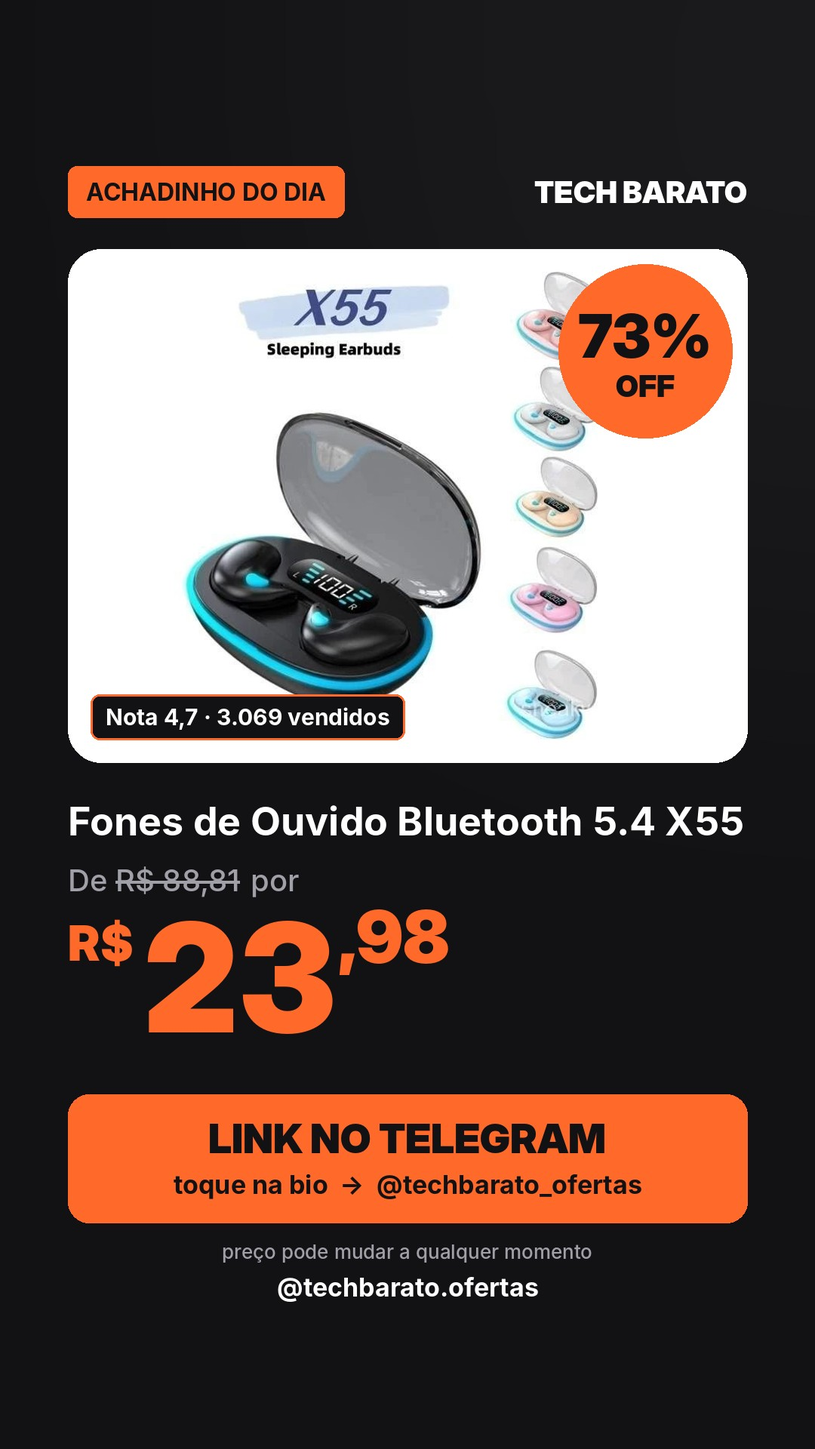
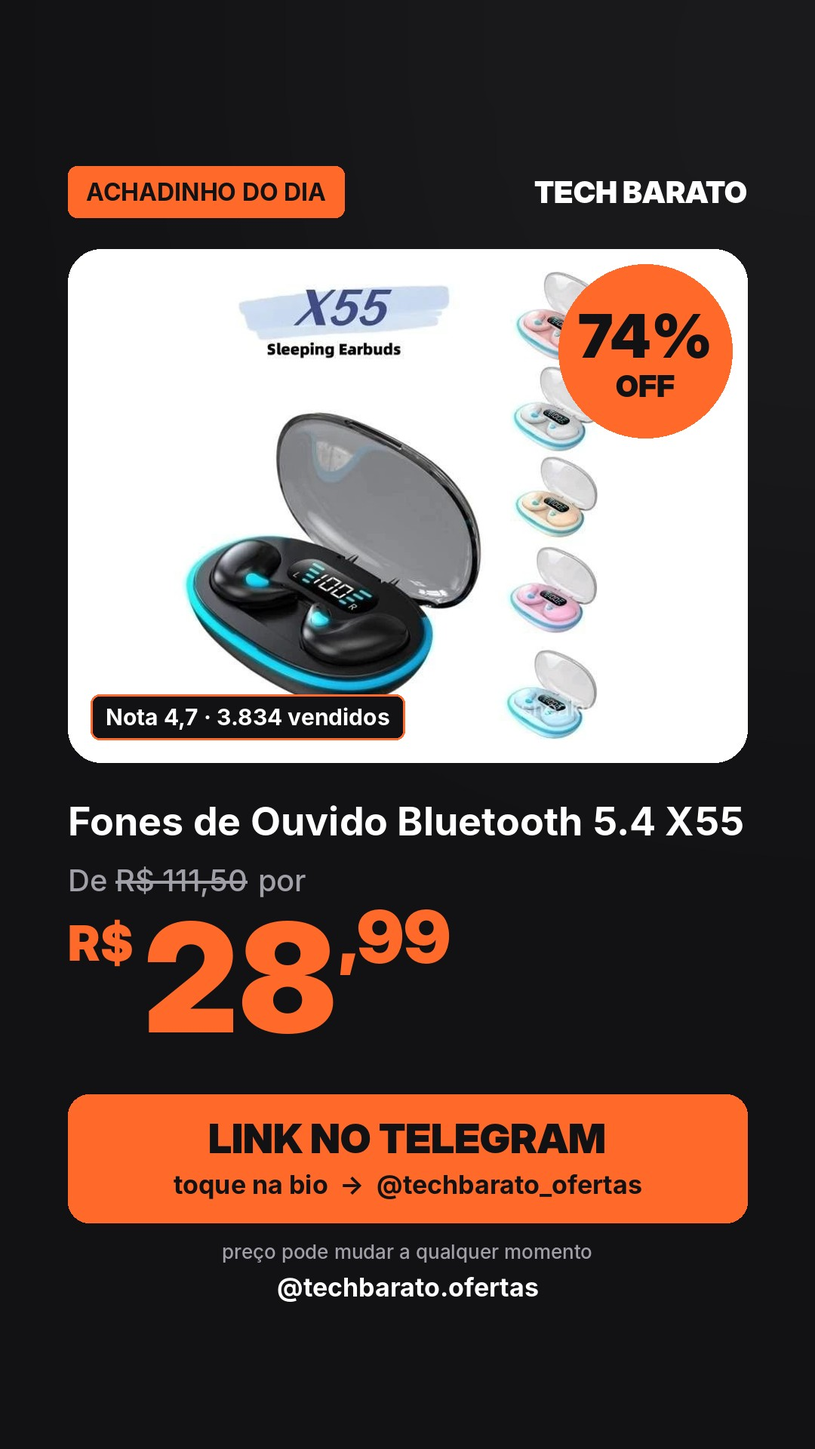
ofertas 2026-11-22_1820

diff --git a/docs/index.html b/docs/index.html
@@ -27,12 +27,12 @@ main{max-width:1100px;margin:auto;padding:8px 16px 40px;display:grid;grid-templa
 footer{text-align:center;color:var(--sub);font-size:12px;padding:0 16px 30px}
 </style></head><body>
 <header><h1>Tech Barato BR <span>●</span></h1>
-<p class="sub">Ofertas da Shopee escolhidas a dedo · atualizado em 22/11/2026 às 04:51</p>
+<p class="sub">Ofertas da Shopee escolhidas a dedo · atualizado em 22/11/2026 às 15:20</p>
 <a class="canal" href="https://t.me/techbarato_ofertas" target="_blank" rel="noopener">📢 Entrar no canal de ofertas</a><div class="filtros" id="f"></div></header>
 <main id="g"></main>
 <footer>Como afiliado da Shopee, posso receber comissão pelas compras feitas pelos links, sem custo extra para você. Preços e estoque podem mudar.</footer>
 <script>
-const D=[{"nome": "Smartwatch MINI 38MM PRO Com monitor De Frequência Cardíaca Do Computador São Paulo pronta entrega", "preco": 53.99, "preco_original": 199.96, "desconto": 73, "imagem": "https://cf.shopee.com.br/file/br-11134207-81z1k-mg4sqr0e5nggcd", "nota": 4.8, "vendas": 1587, "link": "https://s.shopee.com.br/9pg53GM0MZ", "categoria": "smartwatch"}, {"nome": "Teclado Gamer Semi-mecânico Rgb Anti-ghosting", "preco": 38.88, "preco_original": 149.54, "desconto": 74, "imagem": "https://cf.shopee.com.br/file/br-11134207-7r98o-mcw6gui5vk1e01", "nota": 4.8, "vendas": 911, "link": "https://s.shopee.com.br/7AfJsME93E", "categoria": "teclado mecanico"}, {"nome": "Fone Pro Sem Fio Som HiFi 8D Pop-Up Automático Toque Inteligente Bateria 5–7h Bluetooth Universal", "preco": 17.99, "preco_original": 69.19, "desconto": 74, "imagem": "https://cf.shopee.com.br/file/sg-11134201-8261z-ml25b72c1ds21d", "nota": 4.8, "vendas": 6050, "link": "https://s.shopee.com.br/8pnXrPqCWp", "categoria": "fone bluetooth"}, {"nome": "Headset Gamer 7.1 Surround Rgb Delta-f7140 Com Microfone Para Pc E Console", "preco": 54.78, "preco_original": 210.69, "desconto": 74, "imagem": "https://cf.shopee.com.br/file/br-11134207-820lk-moa3sgm6molj9c", "nota": 4.9, "vendas": 710, "link": "https://s.shopee.com.br/2La3a56N5e", "categoria": "headset gamer"}, {"nome": "Smartwatch WL23 PRO(46mm)2026 3 Pulseiras inteligente GPS unisex Esportes Faz Recebe Chamada", "preco": 49.99, "preco_original": 192.27, "desconto": 74, "imagem": "https://cf.shopee.com.br/file/br-11134207-820m0-mpp5kpuip537a4", "nota": 4.9, "vendas": 2069, "link": "https://s.shopee.com.br/40iHZ8nJBt", "categoria": "smartwatch"}, {"nome": "Fone de Ouvido Sem Fio Airpods PRO 3 Com Cancelamento De Ruído Bluetooth Pop-Up para iOS e Android", "preco": 42.98, "preco_original": 171.92, "desconto": 75, "imagem": "https://cf.shopee.com.br/file/sg-11134201-7rd3v-m70zchxbcirf93", "nota": 4.7, "vendas": 5429, "link": "https://s.shopee.com.br/1W0waXf5bw", "categoria": "fone bluetooth"}, {"nome": "Calculadora Colorida Morandi De 12 Dígitos Teclado Mecânico De Ponto Grande Escola & Papelaria De Escritório Multineos", "preco": 22.69, "preco_original": 68.76, "desconto": 67, "imagem": "https://cf.shopee.com.br/file/br-11134207-7r98o-m29ormpaj3kmd9", "nota": 4.9, "vendas": 288, "link": "https://s.shopee.com.br/LoyoRFtE7", "categoria": "teclado mecanico"}, {"nome": "Suporte Roteador Modem Parede Sem Furo Fita 3M Adesivo Universal Organizador WiFi Internet", "preco": 12.0, "preco_original": 36.36, "desconto": 67, "imagem": "https://cf.shopee.com.br/file/br-11134207-820lb-mujiqv5jrabkd0", "nota": 4.6, "vendas": 365, "link": "https://s.shopee.com.br/5AuEZJgIrj", "categoria": "roteador wifi"}, {"nome": "Case Gaveta HD SSD 2.5 Sata III USB 3.0 Transparente Externo 6Gbps PC Notebook PS4 Kit 2  jehnny", "preco": 30.99, "preco_original": 99.97, "desconto": 69, "imagem": "https://cf.shopee.com.br/file/sg-11134201-822x9-mhwbs2tvuo0443", "nota": 4.9, "vendas": 611, "link": "https://s.shopee.com.br/AKcKio52Gw", "categoria": "ssd"}, {"nome": "Teclado Mecanico TGT Sherman V3 C1, Rainbow, ABNT2, Switch Vermelho, Preto, TGT-SHRC-RD01", "preco": 91.91, "preco_original": 382.96, "desconto": 76, "imagem": "https://cf.shopee.com.br/file/br-11134207-820ls-mqeqor4mxm2o65", "nota": 4.9, "vendas": 485, "link": "https://s.shopee.com.br/6q2RtnnDut", "categoria": "teclado mecanico"}, {"nome": "Fone de Ouvido Sem Fio Com Cancelamento De Ruído Bluetooth Pop-Up", "preco": 42.89, "preco_original": 194.95, "desconto": 78, "imagem": "https://cf.shopee.com.br/file/sg-11134201-7rffm-m4f5wo6pi7mjaa", "nota": 4.8, "vendas": 6499, "link": "https://s.shopee.com.br/3g5Q7ylwRd", "categoria": "fone bluetooth"}, {"nome": "Carregador Turbo Inteligente + V8/tipo c Turbo com Cabo Micro USB Novos Telefones Recomendados", "preco": 14.88, "preco_original": 99.2, "desconto": 85, "imagem": "https://cf.shopee.com.br/file/br-11134207-7r98o-lwsogz92un4ic8", "nota": 4.7, "vendas": 2035, "link": "https://s.shopee.com.br/50aniQPKsw", "categoria": "carregador turbo"}, {"nome": "Carregador Turbo 20w Compatível iPhone + Cabo Lightning", "preco": 26.9, "preco_original": null, "desconto": 0, "imagem": "https://cf.shopee.com.br/file/br-11134201-820lw-mqx4vub9getg4c", "nota": 4.8, "vendas": 6016, "link": "https://s.shopee.com.br/906vziWiGu", "categoria": "carregador turbo"}, {"nome": "Mouse Gamer 1200dpi Com Fio Usb Led Rgb Profissional Para Jogos Pc", "preco": 13.9, "preco_original": 39.71, "desconto": 65, "imagem": "https://cf.shopee.com.br/file/br-11134207-820lu-mt3zx01j79qff3", "nota": 4.9, "vendas": 1069, "link": "https://s.shopee.com.br/6AmkcVTt5r", "categoria": "mouse gamer"}, {"nome": "Air Pro 4 Tws Fone De Ouvido Sem Fio Bluetooth 5.1Mini Fones Esportivos Para Android / Ios iphone", "preco": 20.99, "preco_original": 59.97, "desconto": 65, "imagem": "https://cf.shopee.com.br/file/sg-11134201-7rd3v-lwp2d1s7sky0f0", "nota": 4.6, "vendas": 4724, "link": "https://s.shopee.com.br/1gKLGETpfM", "categoria": "fone bluetooth"}, {"nome": "Relógio Smartwatch Original X9 Pro Série 45mm, GPS, NFC, Monitor de Pressão Arterial – São Paulo, Estoque Disponível", "preco": 69.77, "preco_original": 199.34, "desconto": 65, "imagem": "https://cf.shopee.com.br/file/sg-11134201-7rdw5-ly4sik99nn6wf4", "nota": 4.8, "vendas": 1171, "link": "https://s.shopee.com.br/4B1fr8o8be", "categoria": "smartwatch"}, {"nome": "Carregador Portátil Power Bank Turbo 20000mAh 22.5W Premium iPhone Samsung Xiaomi Com Indução", "preco": 79.99, "preco_original": 249.97, "desconto": 68, "imagem": "https://cf.shopee.com.br/file/br-11134207-820m0-mvqgs1eh60ardd", "nota": 4.9, "vendas": 1700, "link": "https://s.shopee.com.br/9pg2bYBNXZ", "categoria": "carregador turbo"}, {"nome": "HQAi H4 Tws Fones De Ouvido Bluetooth Sem Fio 5.3 Para Jogos Esportivos Com Redução De Ruído", "preco": 16.97, "preco_original": 54.74, "desconto": 69, "imagem": "https://cf.shopee.com.br/file/br-11134207-81ztc-mj51ligzptdtc0", "nota": 4.6, "vendas": 3465, "link": "https://s.shopee.com.br/2VtRs4PgVR", "categoria": "fone bluetooth"}, {"nome": "Novo Oxímetro de Pulso OLED de Dedo, Monitor Portátil de Saturação de Oxigênio, Presente de Natal.", "preco": 17.99, "preco_original": 59.97, "desconto": 70, "imagem": "https://cf.shopee.com.br/file/sg-11134201-8258k-mev8f7fai51i72", "nota": 4.8, "vendas": 170, "link": "https://s.shopee.com.br/906utLT5V8", "categoria": "monitor portatil"}, {"nome": "Fone Bluetooth OWS Sem Fio 5.3 Open Ear Confortável para Academia Caminhada e Uso Diário", "preco": 22.99, "preco_original": 99.96, "desconto": 77, "imagem": "https://cf.shopee.com.br/file/sg-11134201-824io-mpi4ekalszkbc1", "nota": 4.5, "vendas": 3661, "link": "https://s.shopee.com.br/9AQL5eAViF", "categoria": "fone bluetooth"}, {"nome": "Carregador Turbo 50W Carregador Rápido Super Rápido Acompanha cabo USB C", "preco": 18.88, "preco_original": 145.23, "desconto": 87, "imagem": "https://cf.shopee.com.br/file/br-11134207-7r98o-lzox24bojuwxc5", "nota": 4.8, "vendas": 2311, "link": "https://s.shopee.com.br/AKcITmosmw", "categoria": "carregador turbo"}, {"nome": "Relogio Smartwatch Feminino Masculino  Series 10 Para Android ios Faz Recebe Chamada", "preco": 45.99, "preco_original": 199.96, "desconto": 77, "imagem": "https://cf.shopee.com.br/file/br-11134207-81ztc-mk9cs8cko8ap5e", "nota": 4.8, "vendas": 1346, "link": "https://s.shopee.com.br/70Lq6bQXse", "categoria": "smartwatch"}, {"nome": "Fone de Ouvido Sem Fio  PRO5 airpods Com Cancelamento De Ruído Bluetooth Pop-Up para iOS e Android", "preco": 42.98, "preco_original": 238.78, "desconto": 82, "imagem": "https://cf.shopee.com.br/file/br-11134207-7r98o-m712dqkqe0xc50", "nota": 4.7, "vendas": 5852, "link": "https://s.shopee.com.br/4LL4vhJ6B8", "categoria": "fone bluetooth"}, {"nome": "Carregador Para iPhone Fonte + Cabo 20w PD Turbo Rapido Tipo C Lightning", "preco": 9.49, "preco_original": 86.27, "desconto": 89, "imagem": "https://cf.shopee.com.br/file/br-11134207-7r98o-lsvdp1mfzd44da", "nota": 4.8, "vendas": 2907, "link": "https://s.shopee.com.br/8fU45ekvzN", "categoria": "carregador turbo"}, {"nome": "Teclado Mecânico Recarregável Interruptores Testador Chaveiros Alto-Falante Amostra Sapo", "preco": 19.4, "preco_original": 57.06, "desconto": 66, "imagem": "https://cf.shopee.com.br/file/br-11134207-81ztc-mj3vpmp8hc76ae", "nota": 4.9, "vendas": 257, "link": "https://s.shopee.com.br/60TITEbw1D", "categoria": "teclado mecanico"}, {"nome": "Mouse Gamer Wireless com Conexão 2.4GHz Estável", "preco": 19.88, "preco_original": 60.24, "desconto": 67, "imagem": "https://cf.shopee.com.br/file/br-11134207-81ztc-mkb1itv9v5s1c9", "nota": 4.8, "vendas": 538, "link": "https://s.shopee.com.br/5q9sGvKYey", "categoria": "mouse gamer"}, {"nome": "Fone De Ouvido NOVO Ruído Cancelando Earbuds Bluetooth Sem Fio HiFi Stereo Com Carregamento De Visor Digital", "preco": 19.99, "preco_original": 60.58, "desconto": 67, "imagem": "https://cf.shopee.com.br/file/sg-11134201-8224o-mhjfql4zsydg80", "nota": 4.6, "vendas": 5281, "link": "https://s.shopee.com.br/1gKJJGNZ3M", "categoria": "fone bluetooth"}, {"nome": "Mouse Gamer Wireless com Conexão 2.4GHz Estável", "preco": 19.88, "preco_original": 60.24, "desconto": 67, "imagem": "https://cf.shopee.com.br/file/br-11134207-81ztc-mkb1itv9v5s1c9", "nota": 4.8, "vendas": 1255, "link": "https://s.shopee.com.br/9zzQVYB4Q4", "categoria": "mouse gamer"}, {"nome": "T900 Ultra Smartwatch Relógio Inteligente Prova Bluetooth Monitoramento De Saúde Exercício Contagem NFC", "preco": 49.8, "preco_original": 150.91, "desconto": 67, "imagem": "https://cf.shopee.com.br/file/br-11134207-81z1k-mfffhm1n60p1be", "nota": 4.7, "vendas": 1465, "link": "https://s.shopee.com.br/9KjjiJvwNN", "categoria": "smartwatch"}, {"nome": "Fone de Ouvido entrada lightning para Iphone Microfone Bluetooth", "preco": 9.99, "preco_original": 30.27, "desconto": 67, "imagem": "https://cf.shopee.com.br/file/sg-11134201-7rbkc-lpcgfnwj651k1e", "nota": 4.7, "vendas": 6917, "link": "https://s.shopee.com.br/9KjjiJePVN", "categoria": "fone bluetooth"}, {"nome": "Headset Gamer TGT Diver V2, Rainbow, Drivers 40mm, Preto, TGT-DVR-RGB02", "preco": 55.9, "preco_original": 174.69, "desconto": 68, "imagem": "https://cf.shopee.com.br/file/br-11134207-81z1k-mf1f34sgcnwkd3", "nota": 4.9, "vendas": 1215, "link": "https://s.shopee.com.br/2gCpMtRBsu", "categoria": "headset gamer"}, {"nome": "Smartwatch D20 relógio Colocar foto com tela hd y68 bluetooth com lembrete chamada monitor de frequência", "preco": 21.98, "preco_original": 70.9, "desconto": 69, "imagem": "https://cf.shopee.com.br/file/sg-11134201-7rbk0-lqqgjmiq5mao68", "nota": 4.5, "vendas": 1266, "link": "https://s.shopee.com.br/9pfzu3iAhW", "categoria": "smartwatch"}, {"nome": "Teclado Gamer/ Escritório Com Fio RGB LED Iluminado  Com 68 Teclados Mecânicos", "preco": 88.88, "preco_original": 296.27, "desconto": 70, "imagem": "https://cf.shopee.com.br/file/br-11134207-7r98o-mcmbazbekcn5d9", "nota": 4.8, "vendas": 357, "link": "https://s.shopee.com.br/5fqQwOgVHz", "categoria": "teclado mecanico"}, {"nome": "Case HD Externo USB 3.0 para HD/SSD 2.5 Gaveta Externa Transparente com Cabo USB Alta Velocidade Compatível Notebook PC", "preco": 21.45, "preco_original": 69.19, "desconto": 69, "imagem": "https://cf.shopee.com.br/file/sg-11134201-8258b-mqnq7bykcyz2f2", "nota": 4.9, "vendas": 649, "link": "https://s.shopee.com.br/9AQIdecIWt", "categoria": "ssd"}, {"nome": "Teclado Gamer/ Escritório Com Fio RGB LED Iluminado  Com 68 Teclados Mecânicos", "preco": 88.88, "preco_original": 296.27, "desconto": 70, "imagem": "https://cf.shopee.com.br/file/br-11134207-7r98o-mcmbtqmuebcx87", "nota": 4.8, "vendas": 502, "link": "https://s.shopee.com.br/906sRLLKlZ", "categoria": "teclado mecanico"}, {"nome": "2026 T800 Ultra 3 MAX Mais Recente Smartwatch Relógio Inteligente NFC Série 10 2.19Polegadas Sem Fio", "preco": 39.8, "preco_original": 147.41, "desconto": 73, "imagem": "https://cf.shopee.com.br/file/br-11134207-81z1k-mhq4f2lhz40397", "nota": 4.7, "vendas": 1755, "link": "https://s.shopee.com.br/8pnSF28ljd", "categoria": "smartwatch"}, {"nome": "Arzopa Z1C Cinza-Monitor Portátil Com Suporte 100 % sRGB De 16.1 \" , 1080P FHD Tela De Extensão De USB C HDMI Para PC", "preco": 528.99, "preco_original": 1763.3, "desconto": 70, "imagem": "https://cf.shopee.com.br/file/cn-11134207-820l4-mvb9zjv0cyyqec", "nota": 5.0, "vendas": 270, "link": "https://s.shopee.com.br/30peYyMXsT", "categoria": "monitor portatil"}, {"nome": "Macaron Teclado Fidget Chaveiro ASMR Clicky Interruptor Mecânico Brinquedo Alívio Do Estresse Pingente Presente", "preco": 8.8, "preco_original": 30.34, "desconto": 71, "imagem": "https://cf.shopee.com.br/file/sg-11134201-8262a-mlx5pxmaeio4eb", "nota": 4.9, "vendas": 476, "link": "https://s.shopee.com.br/7fbU7XrEkT", "categoria": "teclado mecanico"}, {"nome": "1200Mbps Repetidor Wifi Sem Fio 2.4G Amplificador De Sinal Extensor Roteador Booster Network", "preco": 49.97, "preco_original": 199.88, "desconto": 75, "imagem": "https://cf.shopee.com.br/file/br-11134207-820mf-mnkugr2ku5ms16", "nota": 4.7, "vendas": 289, "link": "https://s.shopee.com.br/70LnKJcWHZ", "categoria": "roteador wifi"}, {"nome": "Fone De Ouvido Sem Fio M10 TWS Bluetooth 5.3 display Led Touch", "preco": 18.99, "preco_original": 70.33, "desconto": 73, "imagem": "https://cf.shopee.com.br/file/sg-11134201-8258z-mr0fi8bhfthid6", "nota": 4.8, "vendas": 8349, "link": "https://s.shopee.com.br/3VlunBYgzJ", "categoria": "fone bluetooth"}, {"nome": "KIT Teclado 100% mecânico Punk Esports + mouse para jogos Um item obrigatório para os jogadores -H7", "preco": 52.49, "preco_original": 201.88, "desconto": 74, "imagem": "https://cf.shopee.com.br/file/br-11134207-820m5-mu8ogr0lpfk218", "nota": 4.8, "vendas": 214, "link": "https://s.shopee.com.br/1LhQDCTk0I", "categoria": "teclado mecanico"}, {"nome": "Carregador rápido de 120W com 6A USB C cabo 1M para Mi Turbo Charge Turbo Power Cabo USB + Cabo Tipo C", "preco": 15.89, "preco_original": 61.12, "desconto": 74, "imagem": "https://cf.shopee.com.br/file/sg-11134201-823qk-moi4apd18efh61", "nota": 4.6, "vendas": 3532, "link": "https://s.shopee.com.br/W8JDfBKNI", "categoria": "carregador turbo"}, {"nome": "Câmera Segurança Lâmpada Wifi Full HD Sem Fio 360 Icsee/Yoosee Visão Noturna 8177 EKS", "preco": 58.99, "preco_original": null, "desconto": 0, "imagem": "https://cf.shopee.com.br/file/sg-11134201-8227r-mhhsrii405j733", "nota": 4.9, "vendas": 4406, "link": "https://s.shopee.com.br/3VluJvtBBx", "categoria": "camera wifi"}, {"nome": "Kit Carregador 67W Turbo + Cabo Tipo-C Carga Rápida Universal Xiaomi Redmi Note E Poco X7 Android", "preco": 29.51, "preco_original": null, "desconto": 0, "imagem": "https://cf.shopee.com.br/file/sg-11134201-8258n-mr8vmek85csha1", "nota": 4.5, "vendas": 9310, "link": "https://s.shopee.com.br/2BGWjTgaWK", "categoria": "carregador turbo"}, {"nome": "Senbenbao X55 Fones De Ouvido TWS Sono Sem Fio Bluetooth Display Led Alta Fidelidade Estéreo Cancelamento Ruído À Prova", "preco": 19.29, "preco_original": null, "desconto": 0, "imagem": "https://cf.shopee.com.br/file/sg-11134201-823ob-mp7wv1fcnx8rc4", "nota": 4.8, "vendas": 19272, "link": "https://s.shopee.com.br/20x6XAPYUt", "categoria": "fone bluetooth"}, {"nome": "Teclado Mecânico Gamer Compacto 60% 63 Teclas Switch Blue Rainbow RGB Anti-Ghosting USB", "preco": 99.88, "preco_original": 369.93, "desconto": 73, "imagem": "https://cf.shopee.com.br/file/br-11134207-820lv-mr1pu215296u72", "nota": 4.9, "vendas": 306, "link": "https://s.shopee.com.br/1W0pDmATzl", "categoria": "teclado mecanico"}, {"nome": "HUAWEI WiFi AX2S | Roteador | WS7000 V2 |  Dual Band | 4 Antenas | 5 GHz Wi-Fi 6", "preco": 129.0, "preco_original": 496.15, "desconto": 74, "imagem": "https://cf.shopee.com.br/file/br-11134207-81z1k-me9rity3qqkg1d", "nota": 5.0, "vendas": 1856, "link": "https://s.shopee.com.br/9fMWwmNNjs", "categoria": "roteador wifi"}, {"nome": "Mouse Gamer Jogos Laser 3600dpi Usb Com Fio Led 7 Botões Iluminado", "preco": 16.88, "preco_original": 99.29, "desconto": 83, "imagem": "https://cf.shopee.com.br/file/br-11134207-7r98o-lwoh850dygu797", "nota": 4.8, "vendas": 596, "link": "https://s.shopee.com.br/9AQGLr8AS2", "categoria": "mouse gamer"}, {"nome": "Medidor de SpO2 Portátil para Dedo com Tela LED, Alta Precisão para Monitoramento de Saúde em Casa e Viagem", "preco": 18.89, "preco_original": 42.93, "desconto": 56, "imagem": "https://cf.shopee.com.br/file/sg-11134201-823qv-mooxmpkz30gb81", "nota": 4.7, "vendas": 81, "link": "https://s.shopee.com.br/9V36OON8Xa", "categoria": "monitor portatil"}, {"nome": "Fone Headset Gamer RGB PRO Iluminação LED, Microfone Ajustável, Ideal para Jogos Online", "preco": 79.98, "preco_original": 186.0, "desconto": 57, "imagem": "https://cf.shopee.com.br/file/br-11134207-81z1k-mfczkewm85j991", "nota": 4.9, "vendas": 531, "link": "https://s.shopee.com.br/5Au7EQLtgK", "categoria": "headset gamer"}, {"nome": "Bluetooth Sem fio Fone de ouvido Ergonômico TWS Suporte Orelha Pendurada Anti-queda", "preco": 24.3, "preco_original": 81.0, "desconto": 70, "imagem": "https://cf.shopee.com.br/file/sg-11134201-7rdx3-mch5g12mgnkkac", "nota": 4.7, "vendas": 3047, "link": "https://s.shopee.com.br/50ah27509J", "categoria": "fone bluetooth"}, {"nome": "Smartwatch D20 - Relógio Inteligente y68 Esportivo Bluetooth Android/iOS - Com foto Na Tela", "preco": 19.99, "preco_original": null, "desconto": 0, "imagem": "https://cf.shopee.com.br/file/sg-11134201-7rffv-m43cb4hjqxjrce", "nota": 4.6, "vendas": 4726, "link": "https://s.shopee.com.br/5LDWzOAnYT", "categoria": "smartwatch"}, {"nome": "Carregador iPhone Turbo Tipo-C 20W + Cabo Lightining para IPhone Carga rápida", "preco": 15.99, "preco_original": 49.97, "desconto": 68, "imagem": "https://cf.shopee.com.br/file/sg-11134201-7rbkw-lpcg9rytbas79a", "nota": 4.8, "vendas": 10578, "link": "https://s.shopee.com.br/6q2Km8rXqG", "categoria": "carregador turbo"}, {"nome": "Fone de Ouvido Sem Fio Bluetooth com Condução Óssea/Compacto e Leve/Resistente a Água/Tipo-C", "preco": 31.9, "preco_original": 110.0, "desconto": 71, "imagem": "https://cf.shopee.com.br/file/br-11134211-820ln-mseaww44b5dz4b", "nota": 4.6, "vendas": 3367, "link": "https://s.shopee.com.br/8VAYlCU0uN", "categoria": "fone bluetooth"}, {"nome": "Câmera Vigilância WiFi 4MP Dupla Lente Detecção Inteligente Áudio 2 Vias", "preco": 125.39, "preco_original": 298.55, "desconto": 58, "imagem": "https://cf.shopee.com.br/file/sg-11134201-822zw-mi0cmfoz1p1k70", "nota": 4.9, "vendas": 1412, "link": "https://s.shopee.com.br/7pur5nBt47", "categoria": "camera wifi"}, {"nome": "50M 1080P Sem Fio HDMI Extensor Transmissor De Vídeo Receptor 1TX A 1RX Display Para PS4 Câmera Portátil PC TV Monitor P", "preco": 186.99, "preco_original": 519.42, "desconto": 64, "imagem": "https://cf.shopee.com.br/file/sg-11134201-825ah-mqh2txikvpqme5", "nota": 4.9, "vendas": 163, "link": "https://s.shopee.com.br/6L63J20Tob", "categoria": "monitor portatil"}, {"nome": "Fone De Ouvido Inpods 13 Bluetooth Sem Fio Com Microfone Fones esportivos Adequado Branco", "preco": 19.98, "preco_original": 68.9, "desconto": 71, "imagem": "https://cf.shopee.com.br/file/sg-11134201-825bb-mt7fxycgurra13", "nota": 4.7, "vendas": 7637, "link": "https://s.shopee.com.br/9pfvTSZTW4", "categoria": "fone bluetooth"}, {"nome": "JL PROTEC 4K 8MP Câmera de Segurança 2 Lentes Com Audio e Microfone Câmera 355 Graus Wifi", "preco": 176.88, "preco_original": 402.0, "desconto": 56, "imagem": "https://cf.shopee.com.br/file/br-11134201-81ztc-mj6htjflukg333", "nota": 4.9, "vendas": 1524, "link": "https://s.shopee.com.br/2VtKBa19JA", "categoria": "camera wifi"}, {"nome": "Suporte Gamer Porta Controle Videogame Para Ps4 Xbox Ps5 Fone de Ouvido Headset", "preco": 9.89, "preco_original": 24.73, "desconto": 60, "imagem": "https://cf.shopee.com.br/file/br-11134207-820ll-mlveq5qwu39je0", "nota": 4.5, "vendas": 959, "link": "https://s.shopee.com.br/3LSRB6gNUx", "categoria": "headset gamer"}, {"nome": "Fone De Ouvido Bluetooth Orelha Gatinho Infantil Led Sem Fio", "preco": 27.5, "preco_original": 98.21, "desconto": 72, "imagem": "https://cf.shopee.com.br/file/sg-11134201-820nh-mnq01ce18zr689", "nota": 4.9, "vendas": 5819, "link": "https://s.shopee.com.br/W8Fntdxsf", "categoria": "fone bluetooth"}];
+const D=[{"nome": "Monitor Portátil Expansor NOVANTE  de Tela Dupla 15.6\" FHD 1080p IPS, Tela Rotativa 360° para Notebook", "preco": 1059.0, "preco_original": 2206.25, "desconto": 52, "imagem": "https://cf.shopee.com.br/file/br-11134207-820lg-moxldtu316v450", "nota": 4.8, "vendas": 161, "link": "https://s.shopee.com.br/3LSc0XOQv2", "categoria": "monitor portatil"}, {"nome": "Suporte Gamer para Headset Universal de Mesa | Kits com Suporte para Controle Design Minimalista", "preco": 16.99, "preco_original": 39.51, "desconto": 57, "imagem": "https://cf.shopee.com.br/file/br-11134207-81ztu-ml52wy21ff9haa", "nota": 4.8, "vendas": 505, "link": "https://s.shopee.com.br/1BO7QYF5Cc", "categoria": "headset gamer"}, {"nome": "Fones de Ouvido Bluetooth 5.4 X55 com Visor LED, Hi-Fi Estéreo, Cancelamento de Ruído, Design à Prova d’Água para Graves", "preco": 28.99, "preco_original": 111.5, "desconto": 74, "imagem": "https://cf.shopee.com.br/file/sg-11134201-825a9-mu36trol6akg59", "nota": 4.7, "vendas": 3834, "link": "https://s.shopee.com.br/8fU8MKV4QW", "categoria": "fone bluetooth"}, {"nome": "Smartwatch MINI 38MM PRO Com monitor De Frequência Cardíaca Do Computador São Paulo pronta entrega", "preco": 53.99, "preco_original": 199.96, "desconto": 73, "imagem": "https://cf.shopee.com.br/file/br-11134207-81z1k-mg4sqr0e5nggcd", "nota": 4.8, "vendas": 1587, "link": "https://s.shopee.com.br/9pg53GM0MZ", "categoria": "smartwatch"}, {"nome": "Teclado Gamer Semi-mecânico Rgb Anti-ghosting", "preco": 38.88, "preco_original": 149.54, "desconto": 74, "imagem": "https://cf.shopee.com.br/file/br-11134207-7r98o-mcw6gui5vk1e01", "nota": 4.8, "vendas": 911, "link": "https://s.shopee.com.br/7AfJsME93E", "categoria": "teclado mecanico"}, {"nome": "Fone Pro Sem Fio Som HiFi 8D Pop-Up Automático Toque Inteligente Bateria 5–7h Bluetooth Universal", "preco": 17.99, "preco_original": 69.19, "desconto": 74, "imagem": "https://cf.shopee.com.br/file/sg-11134201-8261z-ml25b72c1ds21d", "nota": 4.8, "vendas": 6050, "link": "https://s.shopee.com.br/8pnXrPqCWp", "categoria": "fone bluetooth"}, {"nome": "Headset Gamer 7.1 Surround Rgb Delta-f7140 Com Microfone Para Pc E Console", "preco": 54.78, "preco_original": 210.69, "desconto": 74, "imagem": "https://cf.shopee.com.br/file/br-11134207-820lk-moa3sgm6molj9c", "nota": 4.9, "vendas": 710, "link": "https://s.shopee.com.br/2La3a56N5e", "categoria": "headset gamer"}, {"nome": "Smartwatch WL23 PRO(46mm)2026 3 Pulseiras inteligente GPS unisex Esportes Faz Recebe Chamada", "preco": 49.99, "preco_original": 192.27, "desconto": 74, "imagem": "https://cf.shopee.com.br/file/br-11134207-820m0-mpp5kpuip537a4", "nota": 4.9, "vendas": 2069, "link": "https://s.shopee.com.br/40iHZ8nJBt", "categoria": "smartwatch"}, {"nome": "Fone de Ouvido Sem Fio Airpods PRO 3 Com Cancelamento De Ruído Bluetooth Pop-Up para iOS e Android", "preco": 42.98, "preco_original": 171.92, "desconto": 75, "imagem": "https://cf.shopee.com.br/file/sg-11134201-7rd3v-m70zchxbcirf93", "nota": 4.7, "vendas": 5429, "link": "https://s.shopee.com.br/1W0waXf5bw", "categoria": "fone bluetooth"}, {"nome": "Calculadora Colorida Morandi De 12 Dígitos Teclado Mecânico De Ponto Grande Escola & Papelaria De Escritório Multineos", "preco": 22.69, "preco_original": 68.76, "desconto": 67, "imagem": "https://cf.shopee.com.br/file/br-11134207-7r98o-m29ormpaj3kmd9", "nota": 4.9, "vendas": 288, "link": "https://s.shopee.com.br/LoyoRFtE7", "categoria": "teclado mecanico"}, {"nome": "Suporte Roteador Modem Parede Sem Furo Fita 3M Adesivo Universal Organizador WiFi Internet", "preco": 12.0, "preco_original": 36.36, "desconto": 67, "imagem": "https://cf.shopee.com.br/file/br-11134207-820lb-mujiqv5jrabkd0", "nota": 4.6, "vendas": 365, "link": "https://s.shopee.com.br/5AuEZJgIrj", "categoria": "roteador wifi"}, {"nome": "Case Gaveta HD SSD 2.5 Sata III USB 3.0 Transparente Externo 6Gbps PC Notebook PS4 Kit 2  jehnny", "preco": 30.99, "preco_original": 99.97, "desconto": 69, "imagem": "https://cf.shopee.com.br/file/sg-11134201-822x9-mhwbs2tvuo0443", "nota": 4.9, "vendas": 611, "link": "https://s.shopee.com.br/AKcKio52Gw", "categoria": "ssd"}, {"nome": "Teclado Mecanico TGT Sherman V3 C1, Rainbow, ABNT2, Switch Vermelho, Preto, TGT-SHRC-RD01", "preco": 91.91, "preco_original": 382.96, "desconto": 76, "imagem": "https://cf.shopee.com.br/file/br-11134207-820ls-mqeqor4mxm2o65", "nota": 4.9, "vendas": 485, "link": "https://s.shopee.com.br/6q2RtnnDut", "categoria": "teclado mecanico"}, {"nome": "Fone de Ouvido Sem Fio Com Cancelamento De Ruído Bluetooth Pop-Up", "preco": 42.89, "preco_original": 194.95, "desconto": 78, "imagem": "https://cf.shopee.com.br/file/sg-11134201-7rffm-m4f5wo6pi7mjaa", "nota": 4.8, "vendas": 6499, "link": "https://s.shopee.com.br/3g5Q7ylwRd", "categoria": "fone bluetooth"}, {"nome": "Carregador Turbo Inteligente + V8/tipo c Turbo com Cabo Micro USB Novos Telefones Recomendados", "preco": 14.88, "preco_original": 99.2, "desconto": 85, "imagem": "https://cf.shopee.com.br/file/br-11134207-7r98o-lwsogz92un4ic8", "nota": 4.7, "vendas": 2035, "link": "https://s.shopee.com.br/50aniQPKsw", "categoria": "carregador turbo"}, {"nome": "Carregador Turbo 20w Compatível iPhone + Cabo Lightning", "preco": 26.9, "preco_original": null, "desconto": 0, "imagem": "https://cf.shopee.com.br/file/br-11134201-820lw-mqx4vub9getg4c", "nota": 4.8, "vendas": 6016, "link": "https://s.shopee.com.br/906vziWiGu", "categoria": "carregador turbo"}, {"nome": "Mouse Gamer 1200dpi Com Fio Usb Led Rgb Profissional Para Jogos Pc", "preco": 13.9, "preco_original": 39.71, "desconto": 65, "imagem": "https://cf.shopee.com.br/file/br-11134207-820lu-mt3zx01j79qff3", "nota": 4.9, "vendas": 1069, "link": "https://s.shopee.com.br/6AmkcVTt5r", "categoria": "mouse gamer"}, {"nome": "Air Pro 4 Tws Fone De Ouvido Sem Fio Bluetooth 5.1Mini Fones Esportivos Para Android / Ios iphone", "preco": 20.99, "preco_original": 59.97, "desconto": 65, "imagem": "https://cf.shopee.com.br/file/sg-11134201-7rd3v-lwp2d1s7sky0f0", "nota": 4.6, "vendas": 4724, "link": "https://s.shopee.com.br/1gKLGETpfM", "categoria": "fone bluetooth"}, {"nome": "Relógio Smartwatch Original X9 Pro Série 45mm, GPS, NFC, Monitor de Pressão Arterial – São Paulo, Estoque Disponível", "preco": 69.77, "preco_original": 199.34, "desconto": 65, "imagem": "https://cf.shopee.com.br/file/sg-11134201-7rdw5-ly4sik99nn6wf4", "nota": 4.8, "vendas": 1171, "link": "https://s.shopee.com.br/4B1fr8o8be", "categoria": "smartwatch"}, {"nome": "Carregador Portátil Power Bank Turbo 20000mAh 22.5W Premium iPhone Samsung Xiaomi Com Indução", "preco": 79.99, "preco_original": 249.97, "desconto": 68, "imagem": "https://cf.shopee.com.br/file/br-11134207-820m0-mvqgs1eh60ardd", "nota": 4.9, "vendas": 1700, "link": "https://s.shopee.com.br/9pg2bYBNXZ", "categoria": "carregador turbo"}, {"nome": "HQAi H4 Tws Fones De Ouvido Bluetooth Sem Fio 5.3 Para Jogos Esportivos Com Redução De Ruído", "preco": 16.97, "preco_original": 54.74, "desconto": 69, "imagem": "https://cf.shopee.com.br/file/br-11134207-81ztc-mj51ligzptdtc0", "nota": 4.6, "vendas": 3465, "link": "https://s.shopee.com.br/2VtRs4PgVR", "categoria": "fone bluetooth"}, {"nome": "Novo Oxímetro de Pulso OLED de Dedo, Monitor Portátil de Saturação de Oxigênio, Presente de Natal.", "preco": 17.99, "preco_original": 59.97, "desconto": 70, "imagem": "https://cf.shopee.com.br/file/sg-11134201-8258k-mev8f7fai51i72", "nota": 4.8, "vendas": 170, "link": "https://s.shopee.com.br/906utLT5V8", "categoria": "monitor portatil"}, {"nome": "Fone Bluetooth OWS Sem Fio 5.3 Open Ear Confortável para Academia Caminhada e Uso Diário", "preco": 22.99, "preco_original": 99.96, "desconto": 77, "imagem": "https://cf.shopee.com.br/file/sg-11134201-824io-mpi4ekalszkbc1", "nota": 4.5, "vendas": 3661, "link": "https://s.shopee.com.br/9AQL5eAViF", "categoria": "fone bluetooth"}, {"nome": "Carregador Turbo 50W Carregador Rápido Super Rápido Acompanha cabo USB C", "preco": 18.88, "preco_original": 145.23, "desconto": 87, "imagem": "https://cf.shopee.com.br/file/br-11134207-7r98o-lzox24bojuwxc5", "nota": 4.8, "vendas": 2311, "link": "https://s.shopee.com.br/AKcITmosmw", "categoria": "carregador turbo"}, {"nome": "Relogio Smartwatch Feminino Masculino  Series 10 Para Android ios Faz Recebe Chamada", "preco": 45.99, "preco_original": 199.96, "desconto": 77, "imagem": "https://cf.shopee.com.br/file/br-11134207-81ztc-mk9cs8cko8ap5e", "nota": 4.8, "vendas": 1346, "link": "https://s.shopee.com.br/70Lq6bQXse", "categoria": "smartwatch"}, {"nome": "Fone de Ouvido Sem Fio  PRO5 airpods Com Cancelamento De Ruído Bluetooth Pop-Up para iOS e Android", "preco": 42.98, "preco_original": 238.78, "desconto": 82, "imagem": "https://cf.shopee.com.br/file/br-11134207-7r98o-m712dqkqe0xc50", "nota": 4.7, "vendas": 5852, "link": "https://s.shopee.com.br/4LL4vhJ6B8", "categoria": "fone bluetooth"}, {"nome": "Carregador Para iPhone Fonte + Cabo 20w PD Turbo Rapido Tipo C Lightning", "preco": 9.49, "preco_original": 86.27, "desconto": 89, "imagem": "https://cf.shopee.com.br/file/br-11134207-7r98o-lsvdp1mfzd44da", "nota": 4.8, "vendas": 2907, "link": "https://s.shopee.com.br/8fU45ekvzN", "categoria": "carregador turbo"}, {"nome": "Teclado Mecânico Recarregável Interruptores Testador Chaveiros Alto-Falante Amostra Sapo", "preco": 19.4, "preco_original": 57.06, "desconto": 66, "imagem": "https://cf.shopee.com.br/file/br-11134207-81ztc-mj3vpmp8hc76ae", "nota": 4.9, "vendas": 257, "link": "https://s.shopee.com.br/60TITEbw1D", "categoria": "teclado mecanico"}, {"nome": "Mouse Gamer Wireless com Conexão 2.4GHz Estável", "preco": 19.88, "preco_original": 60.24, "desconto": 67, "imagem": "https://cf.shopee.com.br/file/br-11134207-81ztc-mkb1itv9v5s1c9", "nota": 4.8, "vendas": 538, "link": "https://s.shopee.com.br/5q9sGvKYey", "categoria": "mouse gamer"}, {"nome": "Fone De Ouvido NOVO Ruído Cancelando Earbuds Bluetooth Sem Fio HiFi Stereo Com Carregamento De Visor Digital", "preco": 19.99, "preco_original": 60.58, "desconto": 67, "imagem": "https://cf.shopee.com.br/file/sg-11134201-8224o-mhjfql4zsydg80", "nota": 4.6, "vendas": 5281, "link": "https://s.shopee.com.br/1gKJJGNZ3M", "categoria": "fone bluetooth"}, {"nome": "Mouse Gamer Wireless com Conexão 2.4GHz Estável", "preco": 19.88, "preco_original": 60.24, "desconto": 67, "imagem": "https://cf.shopee.com.br/file/br-11134207-81ztc-mkb1itv9v5s1c9", "nota": 4.8, "vendas": 1255, "link": "https://s.shopee.com.br/9zzQVYB4Q4", "categoria": "mouse gamer"}, {"nome": "T900 Ultra Smartwatch Relógio Inteligente Prova Bluetooth Monitoramento De Saúde Exercício Contagem NFC", "preco": 49.8, "preco_original": 150.91, "desconto": 67, "imagem": "https://cf.shopee.com.br/file/br-11134207-81z1k-mfffhm1n60p1be", "nota": 4.7, "vendas": 1465, "link": "https://s.shopee.com.br/9KjjiJvwNN", "categoria": "smartwatch"}, {"nome": "Fone de Ouvido entrada lightning para Iphone Microfone Bluetooth", "preco": 9.99, "preco_original": 30.27, "desconto": 67, "imagem": "https://cf.shopee.com.br/file/sg-11134201-7rbkc-lpcgfnwj651k1e", "nota": 4.7, "vendas": 6917, "link": "https://s.shopee.com.br/9KjjiJePVN", "categoria": "fone bluetooth"}, {"nome": "Headset Gamer TGT Diver V2, Rainbow, Drivers 40mm, Preto, TGT-DVR-RGB02", "preco": 55.9, "preco_original": 174.69, "desconto": 68, "imagem": "https://cf.shopee.com.br/file/br-11134207-81z1k-mf1f34sgcnwkd3", "nota": 4.9, "vendas": 1215, "link": "https://s.shopee.com.br/2gCpMtRBsu", "categoria": "headset gamer"}, {"nome": "Smartwatch D20 relógio Colocar foto com tela hd y68 bluetooth com lembrete chamada monitor de frequência", "preco": 21.98, "preco_original": 70.9, "desconto": 69, "imagem": "https://cf.shopee.com.br/file/sg-11134201-7rbk0-lqqgjmiq5mao68", "nota": 4.5, "vendas": 1266, "link": "https://s.shopee.com.br/9pfzu3iAhW", "categoria": "smartwatch"}, {"nome": "Teclado Gamer/ Escritório Com Fio RGB LED Iluminado  Com 68 Teclados Mecânicos", "preco": 88.88, "preco_original": 296.27, "desconto": 70, "imagem": "https://cf.shopee.com.br/file/br-11134207-7r98o-mcmbazbekcn5d9", "nota": 4.8, "vendas": 357, "link": "https://s.shopee.com.br/5fqQwOgVHz", "categoria": "teclado mecanico"}, {"nome": "Case HD Externo USB 3.0 para HD/SSD 2.5 Gaveta Externa Transparente com Cabo USB Alta Velocidade Compatível Notebook PC", "preco": 21.45, "preco_original": 69.19, "desconto": 69, "imagem": "https://cf.shopee.com.br/file/sg-11134201-8258b-mqnq7bykcyz2f2", "nota": 4.9, "vendas": 649, "link": "https://s.shopee.com.br/9AQIdecIWt", "categoria": "ssd"}, {"nome": "Teclado Gamer/ Escritório Com Fio RGB LED Iluminado  Com 68 Teclados Mecânicos", "preco": 88.88, "preco_original": 296.27, "desconto": 70, "imagem": "https://cf.shopee.com.br/file/br-11134207-7r98o-mcmbtqmuebcx87", "nota": 4.8, "vendas": 502, "link": "https://s.shopee.com.br/906sRLLKlZ", "categoria": "teclado mecanico"}, {"nome": "2026 T800 Ultra 3 MAX Mais Recente Smartwatch Relógio Inteligente NFC Série 10 2.19Polegadas Sem Fio", "preco": 39.8, "preco_original": 147.41, "desconto": 73, "imagem": "https://cf.shopee.com.br/file/br-11134207-81z1k-mhq4f2lhz40397", "nota": 4.7, "vendas": 1755, "link": "https://s.shopee.com.br/8pnSF28ljd", "categoria": "smartwatch"}, {"nome": "Arzopa Z1C Cinza-Monitor Portátil Com Suporte 100 % sRGB De 16.1 \" , 1080P FHD Tela De Extensão De USB C HDMI Para PC", "preco": 528.99, "preco_original": 1763.3, "desconto": 70, "imagem": "https://cf.shopee.com.br/file/cn-11134207-820l4-mvb9zjv0cyyqec", "nota": 5.0, "vendas": 270, "link": "https://s.shopee.com.br/30peYyMXsT", "categoria": "monitor portatil"}, {"nome": "Macaron Teclado Fidget Chaveiro ASMR Clicky Interruptor Mecânico Brinquedo Alívio Do Estresse Pingente Presente", "preco": 8.8, "preco_original": 30.34, "desconto": 71, "imagem": "https://cf.shopee.com.br/file/sg-11134201-8262a-mlx5pxmaeio4eb", "nota": 4.9, "vendas": 476, "link": "https://s.shopee.com.br/7fbU7XrEkT", "categoria": "teclado mecanico"}, {"nome": "1200Mbps Repetidor Wifi Sem Fio 2.4G Amplificador De Sinal Extensor Roteador Booster Network", "preco": 49.97, "preco_original": 199.88, "desconto": 75, "imagem": "https://cf.shopee.com.br/file/br-11134207-820mf-mnkugr2ku5ms16", "nota": 4.7, "vendas": 289, "link": "https://s.shopee.com.br/70LnKJcWHZ", "categoria": "roteador wifi"}, {"nome": "Fone De Ouvido Sem Fio M10 TWS Bluetooth 5.3 display Led Touch", "preco": 18.99, "preco_original": 70.33, "desconto": 73, "imagem": "https://cf.shopee.com.br/file/sg-11134201-8258z-mr0fi8bhfthid6", "nota": 4.8, "vendas": 8349, "link": "https://s.shopee.com.br/3VlunBYgzJ", "categoria": "fone bluetooth"}, {"nome": "KIT Teclado 100% mecânico Punk Esports + mouse para jogos Um item obrigatório para os jogadores -H7", "preco": 52.49, "preco_original": 201.88, "desconto": 74, "imagem": "https://cf.shopee.com.br/file/br-11134207-820m5-mu8ogr0lpfk218", "nota": 4.8, "vendas": 214, "link": "https://s.shopee.com.br/1LhQDCTk0I", "categoria": "teclado mecanico"}, {"nome": "Carregador rápido de 120W com 6A USB C cabo 1M para Mi Turbo Charge Turbo Power Cabo USB + Cabo Tipo C", "preco": 15.89, "preco_original": 61.12, "desconto": 74, "imagem": "https://cf.shopee.com.br/file/sg-11134201-823qk-moi4apd18efh61", "nota": 4.6, "vendas": 3532, "link": "https://s.shopee.com.br/W8JDfBKNI", "categoria": "carregador turbo"}, {"nome": "Câmera Segurança Lâmpada Wifi Full HD Sem Fio 360 Icsee/Yoosee Visão Noturna 8177 EKS", "preco": 58.99, "preco_original": null, "desconto": 0, "imagem": "https://cf.shopee.com.br/file/sg-11134201-8227r-mhhsrii405j733", "nota": 4.9, "vendas": 4406, "link": "https://s.shopee.com.br/3VluJvtBBx", "categoria": "camera wifi"}, {"nome": "Kit Carregador 67W Turbo + Cabo Tipo-C Carga Rápida Universal Xiaomi Redmi Note E Poco X7 Android", "preco": 29.51, "preco_original": null, "desconto": 0, "imagem": "https://cf.shopee.com.br/file/sg-11134201-8258n-mr8vmek85csha1", "nota": 4.5, "vendas": 9310, "link": "https://s.shopee.com.br/2BGWjTgaWK", "categoria": "carregador turbo"}, {"nome": "Senbenbao X55 Fones De Ouvido TWS Sono Sem Fio Bluetooth Display Led Alta Fidelidade Estéreo Cancelamento Ruído À Prova", "preco": 19.29, "preco_original": null, "desconto": 0, "imagem": "https://cf.shopee.com.br/file/sg-11134201-823ob-mp7wv1fcnx8rc4", "nota": 4.8, "vendas": 19272, "link": "https://s.shopee.com.br/20x6XAPYUt", "categoria": "fone bluetooth"}, {"nome": "Teclado Mecânico Gamer Compacto 60% 63 Teclas Switch Blue Rainbow RGB Anti-Ghosting USB", "preco": 99.88, "preco_original": 369.93, "desconto": 73, "imagem": "https://cf.shopee.com.br/file/br-11134207-820lv-mr1pu215296u72", "nota": 4.9, "vendas": 306, "link": "https://s.shopee.com.br/1W0pDmATzl", "categoria": "teclado mecanico"}, {"nome": "HUAWEI WiFi AX2S | Roteador | WS7000 V2 |  Dual Band | 4 Antenas | 5 GHz Wi-Fi 6", "preco": 129.0, "preco_original": 496.15, "desconto": 74, "imagem": "https://cf.shopee.com.br/file/br-11134207-81z1k-me9rity3qqkg1d", "nota": 5.0, "vendas": 1856, "link": "https://s.shopee.com.br/9fMWwmNNjs", "categoria": "roteador wifi"}, {"nome": "Mouse Gamer Jogos Laser 3600dpi Usb Com Fio Led 7 Botões Iluminado", "preco": 16.88, "preco_original": 99.29, "desconto": 83, "imagem": "https://cf.shopee.com.br/file/br-11134207-7r98o-lwoh850dygu797", "nota": 4.8, "vendas": 596, "link": "https://s.shopee.com.br/9AQGLr8AS2", "categoria": "mouse gamer"}, {"nome": "Medidor de SpO2 Portátil para Dedo com Tela LED, Alta Precisão para Monitoramento de Saúde em Casa e Viagem", "preco": 18.89, "preco_original": 42.93, "desconto": 56, "imagem": "https://cf.shopee.com.br/file/sg-11134201-823qv-mooxmpkz30gb81", "nota": 4.7, "vendas": 81, "link": "https://s.shopee.com.br/9V36OON8Xa", "categoria": "monitor portatil"}, {"nome": "Fone Headset Gamer RGB PRO Iluminação LED, Microfone Ajustável, Ideal para Jogos Online", "preco": 79.98, "preco_original": 186.0, "desconto": 57, "imagem": "https://cf.shopee.com.br/file/br-11134207-81z1k-mfczkewm85j991", "nota": 4.9, "vendas": 531, "link": "https://s.shopee.com.br/5Au7EQLtgK", "categoria": "headset gamer"}, {"nome": "Bluetooth Sem fio Fone de ouvido Ergonômico TWS Suporte Orelha Pendurada Anti-queda", "preco": 24.3, "preco_original": 81.0, "desconto": 70, "imagem": "https://cf.shopee.com.br/file/sg-11134201-7rdx3-mch5g12mgnkkac", "nota": 4.7, "vendas": 3047, "link": "https://s.shopee.com.br/50ah27509J", "categoria": "fone bluetooth"}, {"nome": "Smartwatch D20 - Relógio Inteligente y68 Esportivo Bluetooth Android/iOS - Com foto Na Tela", "preco": 19.99, "preco_original": null, "desconto": 0, "imagem": "https://cf.shopee.com.br/file/sg-11134201-7rffv-m43cb4hjqxjrce", "nota": 4.6, "vendas": 4726, "link": "https://s.shopee.com.br/5LDWzOAnYT", "categoria": "smartwatch"}, {"nome": "Carregador iPhone Turbo Tipo-C 20W + Cabo Lightining para IPhone Carga rápida", "preco": 15.99, "preco_original": 49.97, "desconto": 68, "imagem": "https://cf.shopee.com.br/file/sg-11134201-7rbkw-lpcg9rytbas79a", "nota": 4.8, "vendas": 10578, "link": "https://s.shopee.com.br/6q2Km8rXqG", "categoria": "carregador turbo"}, {"nome": "Fone de Ouvido Sem Fio Bluetooth com Condução Óssea/Compacto e Leve/Resistente a Água/Tipo-C", "preco": 31.9, "preco_original": 110.0, "desconto": 71, "imagem": "https://cf.shopee.com.br/file/br-11134211-820ln-mseaww44b5dz4b", "nota": 4.6, "vendas": 3367, "link": "https://s.shopee.com.br/8VAYlCU0uN", "categoria": "fone bluetooth"}, {"nome": "Câmera Vigilância WiFi 4MP Dupla Lente Detecção Inteligente Áudio 2 Vias", "preco": 125.39, "preco_original": 298.55, "desconto": 58, "imagem": "https://cf.shopee.com.br/file/sg-11134201-822zw-mi0cmfoz1p1k70", "nota": 4.9, "vendas": 1412, "link": "https://s.shopee.com.br/7pur5nBt47", "categoria": "camera wifi"}, {"nome": "50M 1080P Sem Fio HDMI Extensor Transmissor De Vídeo Receptor 1TX A 1RX Display Para PS4 Câmera Portátil PC TV Monitor P", "preco": 186.99, "preco_original": 519.42, "desconto": 64, "imagem": "https://cf.shopee.com.br/file/sg-11134201-825ah-mqh2txikvpqme5", "nota": 4.9, "vendas": 163, "link": "https://s.shopee.com.br/6L63J20Tob", "categoria": "monitor portatil"}, {"nome": "Fone De Ouvido Inpods 13 Bluetooth Sem Fio Com Microfone Fones esportivos Adequado Branco", "preco": 19.98, "preco_original": 68.9, "desconto": 71, "imagem": "https://cf.shopee.com.br/file/sg-11134201-825bb-mt7fxycgurra13", "nota": 4.7, "vendas": 7637, "link": "https://s.shopee.com.br/9pfvTSZTW4", "categoria": "fone bluetooth"}];
 const brl=v=>v.toLocaleString('pt-BR',{style:'currency',currency:'BRL'});
 const esc=s=>String(s??'').replace(/[&<>"]/g,c=>({'&':'&amp;','<':'&lt;','>':'&gt;','"':'&quot;'}[c]));
 let cat='Todas';
